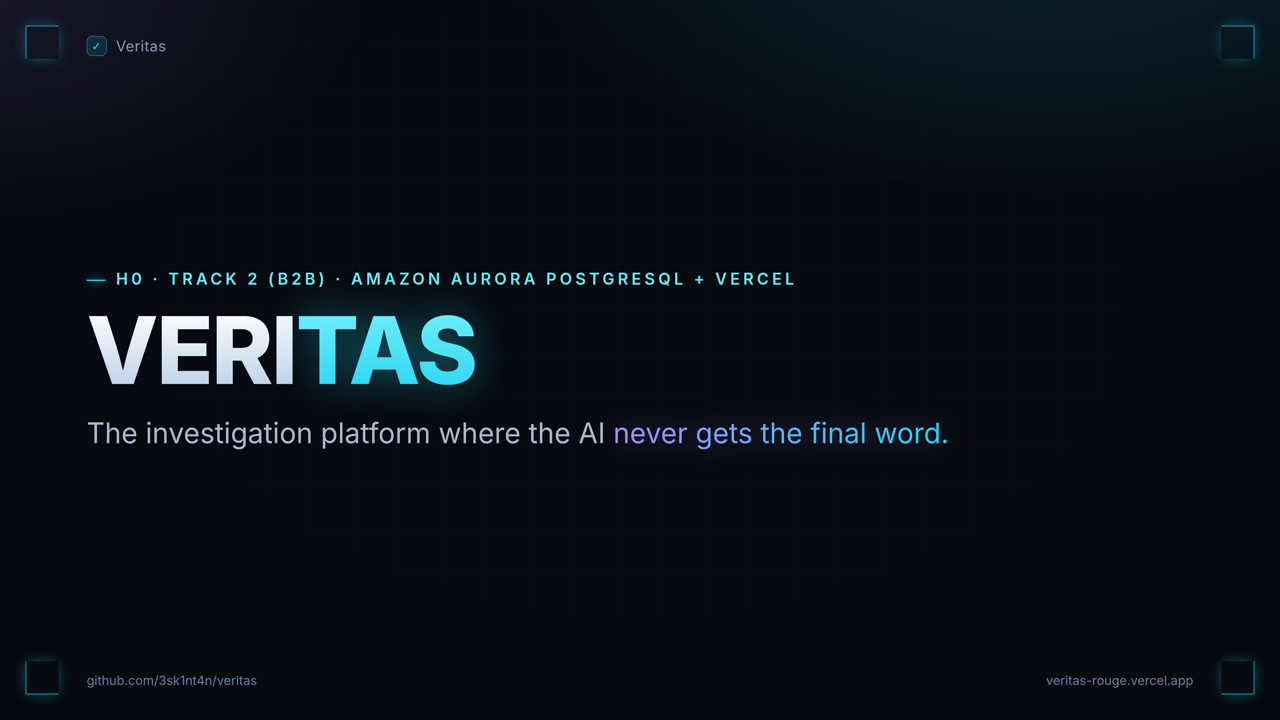
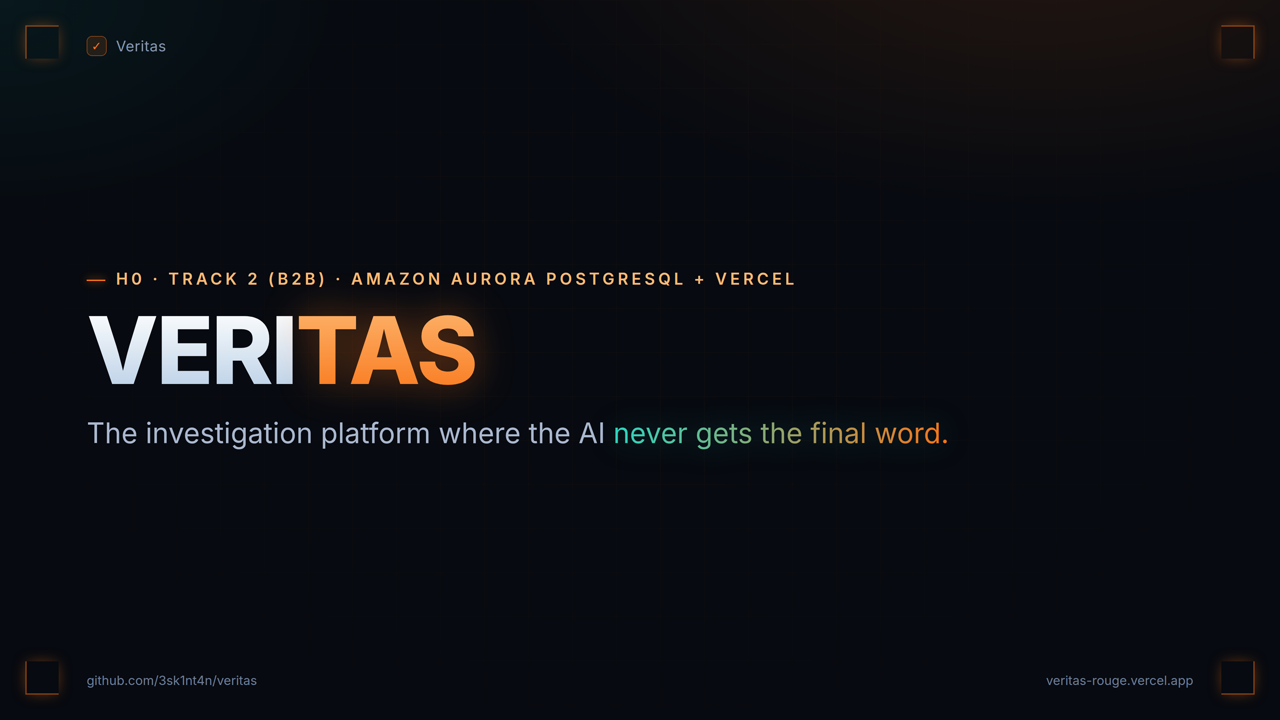
feat: recolor demo film to VulnPilot palette + self-draining runs queue
Video: recolored the whole 19-slide deck to match the web app (brand cyan ->
orange #f97316, violet -> teal #2dd4bf, verdict rose/amber -> #ef4444/#f59e0b),
re-rendered all slides + rebuilt the narrated cut (2:41, 0 overlaps, -14.9 LUFS,
-1.0 dBTP). Regenerated the README poster from the new orange title card. Also
fixed the hero slide to read "CONFIRMED MALICIOUS" so it matches the narration
and SUBMISSION.md.

Runs: the New-investigation queue used to sit at "queued, step 0/16" on the live
site because the off-Vercel Python worker has to be running to consume it - not
viable across the judging window. Added a serverless queue-driver
(web/app/api/worker/tick) that claims/advances/completes demo runs against Aurora
with the same SELECT ... FOR UPDATE SKIP LOCKED mechanic, linking a finished run
to the org's latest case. RunsLive drives it while any run is in flight, so the
queue self-drains on Vercel alone. The real engine worker still runs off-Vercel
in production (evidence never touches the web tier).

diff --git a/web/app/api/worker/tick/route.ts b/web/app/api/worker/tick/route.ts
@@ -1,0 +1,63 @@
+import { NextResponse } from "next/server";
+import { q } from "@/lib/db";
+
+export const dynamic = "force-dynamic";
+
+// 16-step Sentinel Ensemble pipeline labels (mirror ingest/worker.py STEPS).
+const STEPS = [
+  "fingerprint evidence", "sha256 pre-hash", "ssdt health check", "bootstrap typed tools",
+  "process inventory", "network inventory", "compile evidence DB", "persistence sweep",
+  "ensemble analysis", "validate claims vs facts", "ReAct cross-check", "self-correction pass",
+  "confidence calibration", "deterministic disposition", "sha256 post-hash", "compose report",
+];
+
+// Serverless demo queue-driver. Advances queued/running demo runs against Aurora
+// so the Postgres-as-queue self-drains on Vercel alone - no off-Vercel worker has
+// to be running just to watch the queue move. It only steps the state machine and
+// links a finished demo run to an already-ingested case; the real Sentinel Ensemble
+// engine worker (ingest/worker.py) still runs off-Vercel to process actual evidence
+// from S3, so evidence never touches the web tier. The client polls this while any
+// run is in flight (see RunsLive).
+async function tick() {
+  // 1. advance every in-flight run by one step (label from the 16-step list)
+  await q(
+    `UPDATE runs_queue
+        SET step_reached = step_reached + 1,
+            step_label   = ($1::text[])[LEAST(step_reached + 1, 16)]
+      WHERE status = 'running' AND step_reached < 16`,
+    [STEPS]
+  );
+
+  // 2. complete runs that reached the last step; link to the org's latest case so
+  //    "open case ->" lands on a real, fully-ingested investigation
+  await q(
+    `UPDATE runs_queue rq
+        SET status = 'completed', step_reached = 16, step_label = 'done', finished_at = now(),
+            case_id = (SELECT c.case_id FROM cases c
+                        WHERE c.org_id = rq.org_id
+                        ORDER BY c.created_at DESC LIMIT 1)
+      WHERE rq.status = 'running' AND rq.step_reached >= 16`
+  );
+
+  // 3. claim the oldest queued run (SKIP LOCKED -> concurrent ticks/tabs never
+  //    double-claim); it starts advancing on the next tick.
+  await q(
+    `UPDATE runs_queue SET status = 'running', step_reached = 1, step_label = $1,
+            claimed_at = COALESCE(claimed_at, now())
+      WHERE run_id = (
+        SELECT run_id FROM runs_queue WHERE status = 'queued'
+        ORDER BY enqueued_at FOR UPDATE SKIP LOCKED LIMIT 1)`,
+    [STEPS[0]]
+  );
+}
+
+export async function POST() {
+  await tick();
+  return NextResponse.json({ ok: true });
+}
+
+// GET kept so a scheduler (e.g. Vercel Cron) can also drain the queue with no page open.
+export async function GET() {
+  await tick();
+  return NextResponse.json({ ok: true });
+}

diff --git a/web/app/runs/page.tsx b/web/app/runs/page.tsx
@@ -16,10 +16,11 @@ export default async function RunsPage() {
       <section>
         <h1 className="text-xl font-semibold tracking-tight text-white">Queue a new investigation</h1>
         <p className="mt-1 max-w-2xl text-sm text-haze">
-          Submitting enqueues a job in Aurora. An off-Vercel worker claims it with{" "}
-          <code className="mono">SELECT … FOR UPDATE SKIP LOCKED</code>, runs the 16-step Sentinel
-          Ensemble pipeline, and ingests only deterministically validated facts back into Aurora.
-          Evidence never touches the web tier. Progress below updates live.
+          Submitting enqueues a job in Aurora. A worker claims it with{" "}
+          <code className="mono">SELECT … FOR UPDATE SKIP LOCKED</code>, drives the 16-step Sentinel
+          Ensemble pipeline, and links only deterministically validated facts back into Aurora.
+          Evidence never touches the web tier. Progress below updates live - the queue self-drains
+          on this demo; in production an off-Vercel engine worker runs the real pipeline.
         </p>
       </section>
       <RunsLive initial={runs} />

diff --git a/web/components/RunsLive.tsx b/web/components/RunsLive.tsx
@@ -35,7 +35,13 @@ export function RunsLive({ initial }: { initial: Run[] }) {
     try {
       const r = await fetch("/api/runs", { cache: "no-store" });
       const j = await r.json();
-      setRuns(j.runs ?? []);
+      const next: Run[] = j.runs ?? [];
+      setRuns(next);
+      // Drive the serverless queue-driver while anything is in flight so the
+      // Postgres-as-queue self-drains on the live site with no off-Vercel worker.
+      if (next.some((x) => x.status === "queued" || x.status === "claimed" || x.status === "running")) {
+        fetch("/api/worker/tick", { method: "POST", cache: "no-store" }).catch(() => {});
+      }
     } catch { /* ignore transient */ }
   }, []);
 

diff --git a/docs/build_video.py b/docs/build_video.py
@@ -37,42 +37,42 @@ CSS = """
 *{margin:0;padding:0;box-sizing:border-box}
 html,body{width:1920px;height:1080px;overflow:hidden;font-family:'Inter',system-ui,Arial,sans-serif;color:#e6edf6}
 body{background:
-  radial-gradient(1400px 700px at 82% -10%, rgba(34,211,238,.12), transparent 60%),
-  radial-gradient(1000px 600px at 0% 0%, rgba(167,139,250,.10), transparent 55%),
+  radial-gradient(1400px 700px at 82% -10%, rgba(249,115,22,.12), transparent 60%),
+  radial-gradient(1000px 600px at 0% 0%, rgba(13,148,136,.10), transparent 55%),
   #070a10;display:flex;flex-direction:column;justify-content:center;padding:0 130px;position:relative}
 .mono{font-family:'JetBrains Mono',ui-monospace,monospace}
 .reveal{opacity:0}
-.kicker{font-size:24px;letter-spacing:5px;text-transform:uppercase;color:#67e8f9;margin-bottom:26px;font-weight:600}
-.kicker::before{content:"";display:inline-block;width:28px;height:2px;background:#22d3ee;margin-right:16px;
-  vertical-align:middle;box-shadow:0 0 12px #22d3ee}
+.kicker{font-size:24px;letter-spacing:5px;text-transform:uppercase;color:#fdba74;margin-bottom:26px;font-weight:600}
+.kicker::before{content:"";display:inline-block;width:28px;height:2px;background:#f97316;margin-right:16px;
+  vertical-align:middle;box-shadow:0 0 12px #f97316}
 .brandmark{position:absolute;top:54px;left:130px;display:flex;align-items:center;gap:14px;color:#8597b3;font-size:22px;letter-spacing:.5px}
-.brandmark .b{width:30px;height:30px;border-radius:8px;border:1px solid rgba(34,211,238,.5);background:rgba(34,211,238,.12);
-  color:#22d3ee;display:grid;place-items:center;font-size:18px}
+.brandmark .b{width:30px;height:30px;border-radius:8px;border:1px solid rgba(249,115,22,.5);background:rgba(249,115,22,.12);
+  color:#f97316;display:grid;place-items:center;font-size:18px}
 .evbadge{position:absolute;top:60px;right:130px;font-size:15px;letter-spacing:2px;color:#6b7d99;opacity:.65}
 .foot{position:absolute;bottom:48px;left:130px;right:130px;display:flex;justify-content:space-between;font-size:19px;color:#6b7d99}
 h1.cover{font-size:140px;font-weight:800;letter-spacing:-3px;line-height:.95;
   background:linear-gradient(180deg,#ffffff,#b9cfe6);-webkit-background-clip:text;background-clip:text;color:transparent}
 .cover-sub{font-size:42px;color:#aab8cf;margin-top:30px;max-width:1320px;line-height:1.3}
-.c{color:#22d3ee}
-h1.cover .c,.big .c{background:linear-gradient(180deg,#7ef0ff,#22d3ee);-webkit-background-clip:text;background-clip:text;
-  color:transparent;filter:drop-shadow(0 0 30px rgba(34,211,238,.45))}
-.thesis{background:linear-gradient(90deg,#a78bfa,#22d3ee);-webkit-background-clip:text;background-clip:text;
-  color:transparent;filter:drop-shadow(0 0 22px rgba(167,139,250,.38))}
+.c{color:#f97316}
+h1.cover .c,.big .c{background:linear-gradient(180deg,#fdba74,#f97316);-webkit-background-clip:text;background-clip:text;
+  color:transparent;filter:drop-shadow(0 0 30px rgba(249,115,22,.45))}
+.thesis{background:linear-gradient(90deg,#2dd4bf,#f97316);-webkit-background-clip:text;background-clip:text;
+  color:transparent;filter:drop-shadow(0 0 22px rgba(13,148,136,.38))}
 h2{font-size:62px;font-weight:700;letter-spacing:-1px;line-height:1.08;max-width:1480px}
 h2::after{content:"";display:block;width:98px;height:4px;margin-top:22px;border-radius:3px;
-  background:linear-gradient(90deg,#22d3ee,rgba(34,211,238,0))}
+  background:linear-gradient(90deg,#f97316,rgba(249,115,22,0))}
 .big{font-size:88px;font-weight:800;letter-spacing:-2px;line-height:1.04;max-width:1560px;
   background:linear-gradient(180deg,#ffffff,#c4d6ea);-webkit-background-clip:text;background-clip:text;color:transparent}
 .sub{font-size:36px;color:#aab8cf;margin-top:34px;max-width:1480px;line-height:1.4}
 ul.bul{margin-top:42px;display:flex;flex-direction:column;gap:28px;max-width:1580px}
 ul.bul li{list-style:none;display:flex;gap:20px;font-size:31px;color:#cdd8ea;line-height:1.42;letter-spacing:.2px}
 ul.bul li::before{content:"";flex:0 0 auto;margin-top:15px;width:12px;height:12px;border-radius:50%;
-  background:#22d3ee;box-shadow:0 0 14px #22d3ee}
+  background:#f97316;box-shadow:0 0 14px #f97316}
 ul.bul b{color:#fff}
 .sqlcard{margin-top:30px;border:1px solid #233149;background:#0b0f17;border-radius:14px;padding:22px 28px;
   font-size:22px;line-height:1.55;color:#cdd8ea;max-width:1520px;white-space:pre;
-  box-shadow:0 0 0 1px rgba(34,211,238,.08),0 0 50px -16px rgba(34,211,238,.28)}
-.sqlcard .kw{color:#67e8f9;font-weight:600}
+  box-shadow:0 0 0 1px rgba(249,115,22,.08),0 0 50px -16px rgba(249,115,22,.28)}
+.sqlcard .kw{color:#fdba74;font-weight:600}
 .split{display:flex;gap:70px;align-items:center}
 .split .txt{flex:0 0 660px}
 .split .txt h2{font-size:54px}
@@ -80,13 +80,13 @@ ul.bul b{color:#fff}
 .split .txt .lines{font-size:31px;color:#aab8cf;margin-top:26px;line-height:1.4}
 .chips{display:flex;align-items:center;gap:14px;margin-top:34px}
 .verdict-chip{display:inline-flex;align-items:center;border-radius:11px;padding:9px 18px;font-weight:700;font-size:25px;border:1px solid}
-.vc-confirmed{color:#f43f5e;border-color:rgba(244,63,94,.55);background:rgba(244,63,94,.12);filter:drop-shadow(0 0 16px rgba(244,63,94,.25))}
+.vc-confirmed{color:#ef4444;border-color:rgba(239,68,68,.55);background:rgba(239,68,68,.12);filter:drop-shadow(0 0 16px rgba(239,68,68,.25))}
 .vc-suspicious{color:#f59e0b;border-color:rgba(245,158,11,.55);background:rgba(245,158,11,.12)}
-.vc-arrow{color:#22d3ee;font-size:30px}
-.gate-callout{margin-top:24px;display:inline-flex;align-items:center;gap:12px;border:1px solid rgba(244,63,94,.5);
-  background:rgba(244,63,94,.08);color:#fda4af;border-radius:12px;padding:14px 22px;font-size:23px}
+.vc-arrow{color:#f97316;font-size:30px}
+.gate-callout{margin-top:24px;display:inline-flex;align-items:center;gap:12px;border:1px solid rgba(239,68,68,.5);
+  background:rgba(239,68,68,.08);color:#fca5a5;border-radius:12px;padding:14px 22px;font-size:23px}
 .window{flex:1;border:1px solid #233149;border-radius:16px;overflow:hidden;background:#0b0f17;transition:filter .3s;
-  box-shadow:0 40px 90px -30px rgba(0,0,0,.9),0 0 0 1px rgba(34,211,238,.14),0 0 70px -12px rgba(34,211,238,.22)}
+  box-shadow:0 40px 90px -30px rgba(0,0,0,.9),0 0 0 1px rgba(249,115,22,.14),0 0 70px -12px rgba(249,115,22,.22)}
 .window.dim{filter:brightness(.42) saturate(.85)}
 .window .bar{height:54px;display:flex;align-items:center;gap:10px;padding:0 20px;background:#0f1623;border-bottom:1px solid #1e2a40}
 .window .bar .dot{width:13px;height:13px;border-radius:50%}
@@ -99,19 +99,19 @@ ul.bul b{color:#fff}
 .vignette{position:absolute;inset:0;pointer-events:none;z-index:1;
   background:radial-gradient(ellipse at 50% 45%, transparent 55%, rgba(7,10,16,.5) 100%)}
 .cap{position:absolute;bottom:70px;left:0;right:0;text-align:center;font-size:30px;color:#aab8cf;padding:0 200px}
-.proofcard{margin-top:46px;border:1px solid rgba(34,211,238,.35);border-radius:18px;background:rgba(11,30,40,.55);padding:40px 46px;max-width:1520px}
+.proofcard{margin-top:46px;border:1px solid rgba(249,115,22,.35);border-radius:18px;background:rgba(11,30,40,.55);padding:40px 46px;max-width:1520px}
 .proofcard .pl{font-size:30px;color:#cdd8ea;line-height:1.5}
-.proofcard .pl b{color:#67e8f9}
+.proofcard .pl b{color:#fdba74}
 .links{margin-top:40px;font-size:34px;color:#8597b3}
-.links .u{color:#67e8f9}
-.tag-pill{display:inline-block;margin-top:40px;border:1px solid rgba(34,211,238,.4);background:rgba(34,211,238,.1);
-  color:#67e8f9;border-radius:999px;padding:14px 30px;font-size:30px;font-weight:600}
+.links .u{color:#fdba74}
+.tag-pill{display:inline-block;margin-top:40px;border:1px solid rgba(249,115,22,.4);background:rgba(249,115,22,.1);
+  color:#fdba74;border-radius:999px;padding:14px 30px;font-size:30px;font-weight:600}
 /* decorative layer */
 .grid{position:absolute;inset:0;pointer-events:none;opacity:.6;z-index:0;
-  background-image:linear-gradient(rgba(34,211,238,.05) 1px,transparent 1px),linear-gradient(90deg,rgba(34,211,238,.05) 1px,transparent 1px);
+  background-image:linear-gradient(rgba(249,115,22,.05) 1px,transparent 1px),linear-gradient(90deg,rgba(249,115,22,.05) 1px,transparent 1px);
   background-size:66px 66px;-webkit-mask-image:radial-gradient(ellipse at 50% 42%, #000 26%, transparent 76%);
   mask-image:radial-gradient(ellipse at 50% 42%, #000 26%, transparent 76%)}
-.corner{position:absolute;width:50px;height:50px;border:2px solid rgba(34,211,238,.5);pointer-events:none;z-index:1;box-shadow:0 0 22px -4px rgba(34,211,238,.5)}
+.corner{position:absolute;width:50px;height:50px;border:2px solid rgba(249,115,22,.5);pointer-events:none;z-index:1;box-shadow:0 0 22px -4px rgba(249,115,22,.5)}
 .c-tl{top:38px;left:38px;border-right:0;border-bottom:0}
 .c-tr{top:38px;right:38px;border-left:0;border-bottom:0}
 .c-bl{bottom:38px;left:38px;border-right:0;border-top:0}
@@ -176,10 +176,10 @@ def hero(reveal, img):
              f'<span class="vc-arrow">&rarr;</span>'
              f'<span class="verdict-chip vc-suspicious">SUSPICIOUS</span></div>')
     gate = (f'<div class="gate-callout"{_rc(reveal >= 2)}>'
-            f'<span style="color:#f43f5e">&#10007;</span> promotion withheld by the exact deterministic gate</div>')
+            f'<span style="color:#ef4444">&#10007;</span> promotion withheld by the exact deterministic gate</div>')
     return (f'{BRAND}{EVBADGE}<div class="split"><div class="txt">'
             f'<div class="kicker">The trust layer</div>'
-            f'<h2>The AI proposed CONFIRMED.<br>The code said SUSPICIOUS.</h2>'
+            f'<h2>The AI proposed CONFIRMED MALICIOUS.<br>The code said SUSPICIOUS.</h2>'
             f'<div class="lines">Nothing is silently dropped.</div>{chips}{gate}</div>'
             f'<div class="window{dim}"><div class="bar">'
             f'<span class="dot" style="background:#ff5f57"></span><span class="dot" style="background:#febc2e"></span>'